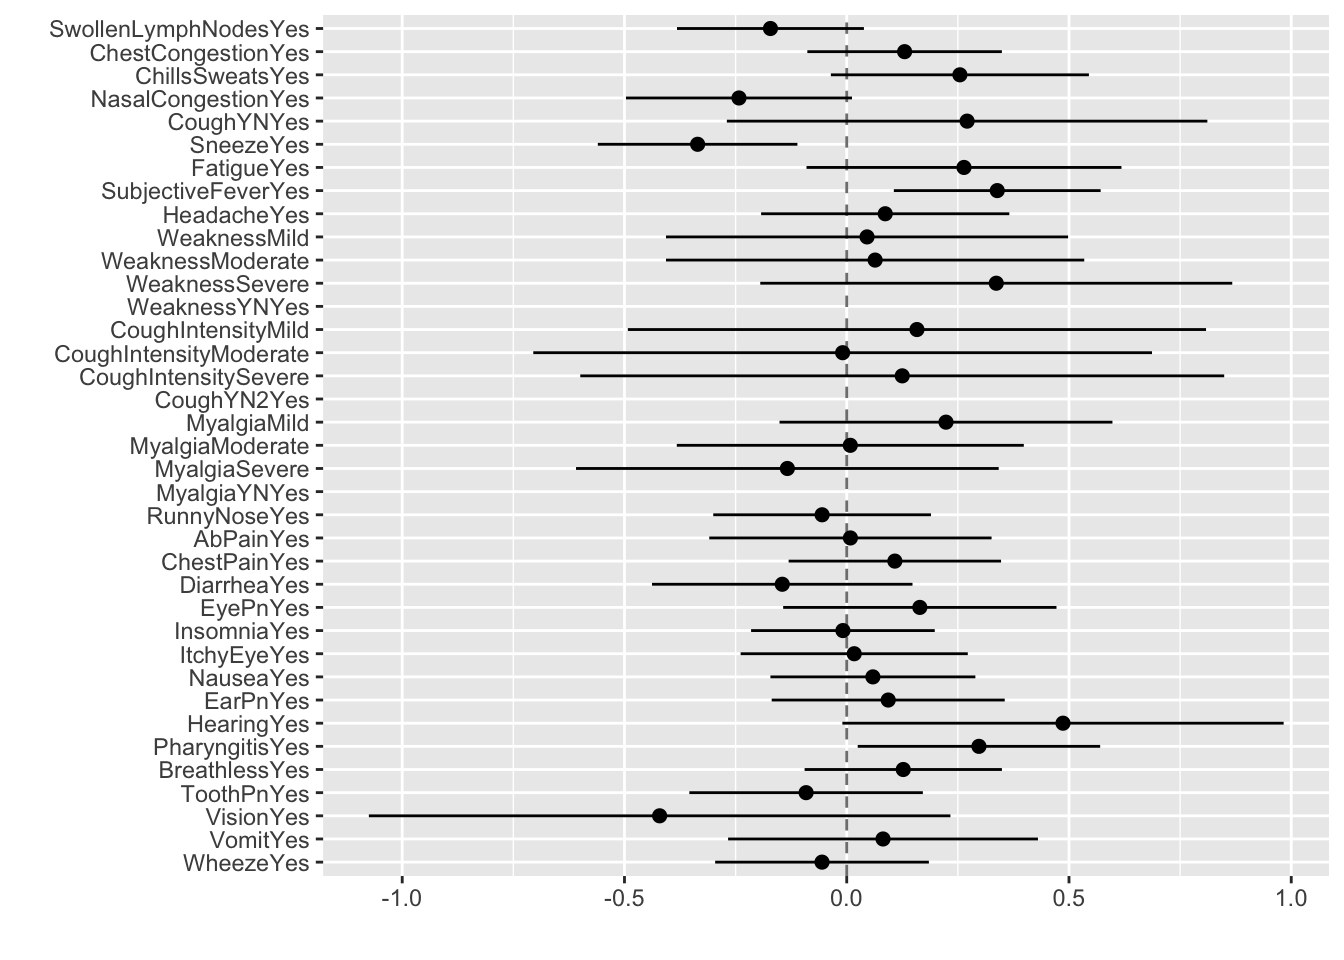
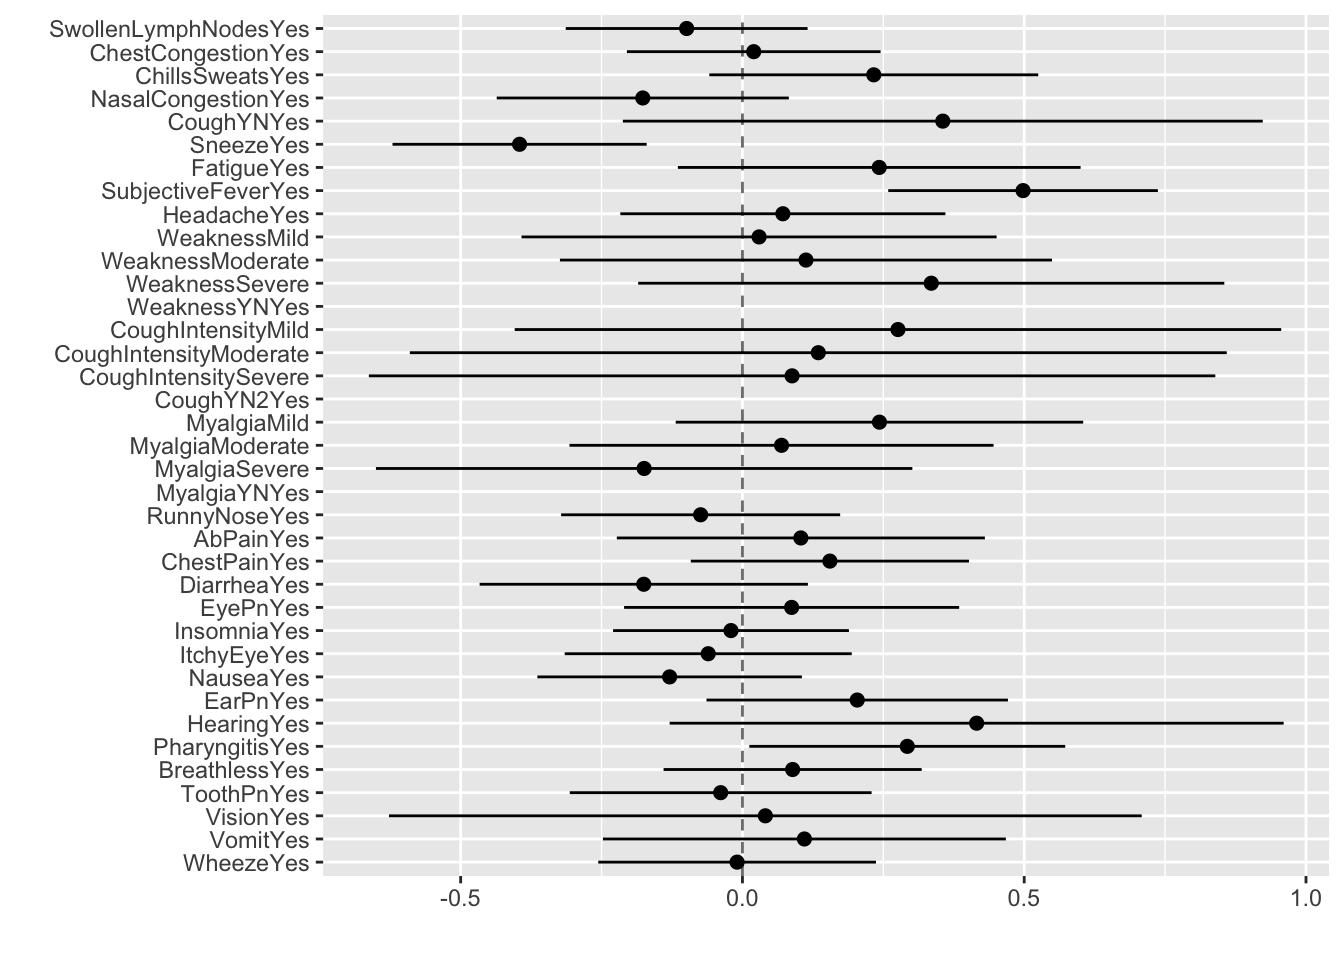
update yml

diff --git a/docs/fluanalysis/code/fitting.html b/docs/fluanalysis/code/fitting.html
@@ -147,29 +147,6 @@ code span.wa { color: #60a0b0; font-weight: bold; font-style: italic; } /* Warni
  <span class="menu-text">About Me</span></a>
   </li>  
   <li class="nav-item dropdown ">
-    <a class="nav-link dropdown-toggle" href="#" id="nav-menu-projects" role="button" data-bs-toggle="dropdown" aria-expanded="false">
- <span class="menu-text">Projects</span>
-    </a>
-    <ul class="dropdown-menu" aria-labelledby="nav-menu-projects">    
-        <li>
-    <a class="dropdown-item" href="../.././coding_exercise.html">
- <span class="dropdown-text">R Coding Exercise</span></a>
-  </li>  
-        <li>
-    <a class="dropdown-item" href="../.././visualization_exercise.html">
- <span class="dropdown-text">Visualization Exercise</span></a>
-  </li>  
-        <li>
-    <a class="dropdown-item" href="../.././tidytuesday_exercise.html">
- <span class="dropdown-text">Tidy Tuesday Exercise</span></a>
-  </li>  
-        <li>
-    <a class="dropdown-item" href="../.././data_analysis_exercise.html">
- <span class="dropdown-text">Data Analysis Exercise</span></a>
-  </li>  
-    </ul>
-  </li>
-  <li class="nav-item dropdown ">
     <a class="nav-link dropdown-toggle" href="#" id="nav-menu-flu-analysis" role="button" data-bs-toggle="dropdown" aria-expanded="false">
  <span class="menu-text">Flu Analysis</span>
     </a>
@@ -185,6 +162,29 @@ code span.wa { color: #60a0b0; font-weight: bold; font-style: italic; } /* Warni
         <li>
     <a class="dropdown-item" href="../.././fluanalysis/code/fitting.html">
  <span class="dropdown-text">Model Fitting</span></a>
+  </li>  
+    </ul>
+  </li>
+  <li class="nav-item dropdown ">
+    <a class="nav-link dropdown-toggle" href="#" id="nav-menu-other-projects" role="button" data-bs-toggle="dropdown" aria-expanded="false">
+ <span class="menu-text">Other Projects</span>
+    </a>
+    <ul class="dropdown-menu" aria-labelledby="nav-menu-other-projects">    
+        <li>
+    <a class="dropdown-item" href="../.././coding_exercise.html">
+ <span class="dropdown-text">R Coding Exercise</span></a>
+  </li>  
+        <li>
+    <a class="dropdown-item" href="../.././visualization_exercise.html">
+ <span class="dropdown-text">Visualization Exercise</span></a>
+  </li>  
+        <li>
+    <a class="dropdown-item" href="../.././tidytuesday_exercise.html">
+ <span class="dropdown-text">Tidy Tuesday Exercise</span></a>
+  </li>  
+        <li>
+    <a class="dropdown-item" href="../.././data_analysis_exercise.html">
+ <span class="dropdown-text">Data Analysis Exercise</span></a>
   </li>  
     </ul>
   </li>
@@ -345,18 +345,18 @@ code span.wa { color: #60a0b0; font-weight: bold; font-style: italic; } /* Warni
 <span id="cb17-3"><a href="#cb17-3" aria-hidden="true" tabindex="-1"></a><span class="fu">tidy</span>(bodytemp_fit)</span></code><button title="Copy to Clipboard" class="code-copy-button"><i class="bi"></i></button></pre></div>
 <div class="cell-output cell-output-stdout">
 <pre><code># A tibble: 38 × 5
-   term                 estimate std.error statistic p.value
-   &lt;chr&gt;                   &lt;dbl&gt;     &lt;dbl&gt;     &lt;dbl&gt;   &lt;dbl&gt;
- 1 (Intercept)           97.7        0.363   269.    0      
- 2 SwollenLymphNodesYes  -0.172      0.107    -1.60  0.110  
- 3 ChestCongestionYes     0.130      0.112     1.17  0.244  
- 4 ChillsSweatsYes        0.255      0.148     1.72  0.0862 
- 5 NasalCongestionYes    -0.242      0.130    -1.87  0.0622 
- 6 CoughYNYes             0.271      0.276     0.982 0.327  
- 7 SneezeYes             -0.335      0.115    -2.93  0.00356
- 8 FatigueYes             0.264      0.181     1.46  0.145  
- 9 SubjectiveFeverYes     0.339      0.119     2.85  0.00451
-10 HeadacheYes            0.0866     0.142     0.608 0.543  
+   term                 estimate std.error statistic   p.value
+   &lt;chr&gt;                   &lt;dbl&gt;     &lt;dbl&gt;     &lt;dbl&gt;     &lt;dbl&gt;
+ 1 (Intercept)           97.6        0.364   268.    0        
+ 2 SwollenLymphNodesYes  -0.0990     0.110    -0.904 0.366    
+ 3 ChestCongestionYes     0.0200     0.115     0.174 0.862    
+ 4 ChillsSweatsYes        0.233      0.149     1.56  0.118    
+ 5 NasalCongestionYes    -0.177      0.132    -1.34  0.182    
+ 6 CoughYNYes             0.356      0.290     1.23  0.220    
+ 7 SneezeYes             -0.395      0.115    -3.44  0.000636 
+ 8 FatigueYes             0.243      0.182     1.33  0.184    
+ 9 SubjectiveFeverYes     0.498      0.122     4.08  0.0000524
+10 HeadacheYes            0.0717     0.147     0.487 0.626    
 # … with 28 more rows</code></pre>
 </div>
 </div>
@@ -387,22 +387,23 @@ code span.wa { color: #60a0b0; font-weight: bold; font-style: italic; } /* Warni
 <pre><code># A tibble: 183 × 2
    BodyTemp .pred
       &lt;dbl&gt; &lt;dbl&gt;
- 1    100.   99.3
- 2     98.5  98.6
- 3     97.8  98.7
- 4     98.1  98.4
- 5    100.   99.1
- 6     98.7  98.3
- 7     98.8  99.2
- 8    101.   99.0
- 9     98.3  98.4
-10     99.3  98.9
+ 1     98.3  99.3
+ 2    100.   99.1
+ 3     98.4  98.6
+ 4     97.8  98.5
+ 5     97.9  99.7
+ 6    102.   99.0
+ 7     98.1  98.4
+ 8     99.3  99.5
+ 9     98.2  98.5
+10    100.   99.4
 # … with 173 more rows</code></pre>
 </div>
 </div>
 </section>
 <section id="use-rmse-to-evaluate-model" class="level3">
 <h3 class="anchored" data-anchor-id="use-rmse-to-evaluate-model">Use RMSE to evaluate model</h3>
+<p><strong>Info on RMSE or Root Mean Squared Error can be found <a href="https://help.sap.com/docs/SAP_PREDICTIVE_ANALYTICS/41d1a6d4e7574e32b815f1cc87c00f42/5e5198fd4afe4ae5b48fefe0d3161810.html">here</a>.</strong></p>
 <div class="cell">
 <div class="sourceCode cell-code" id="cb24"><pre class="sourceCode r code-with-copy"><code class="sourceCode r"><span id="cb24-1"><a href="#cb24-1" aria-hidden="true" tabindex="-1"></a>bodytemp_aug_test <span class="sc">%&gt;%</span> </span>
 <span id="cb24-2"><a href="#cb24-2" aria-hidden="true" tabindex="-1"></a>  <span class="fu">rmse</span>(<span class="at">truth =</span> BodyTemp, .pred)</span></code><button title="Copy to Clipboard" class="code-copy-button"><i class="bi"></i></button></pre></div>
@@ -410,7 +411,7 @@ code span.wa { color: #60a0b0; font-weight: bold; font-style: italic; } /* Warni
 <pre><code># A tibble: 1 × 3
   .metric .estimator .estimate
   &lt;chr&gt;   &lt;chr&gt;          &lt;dbl&gt;
-1 rmse    standard        1.18</code></pre>
+1 rmse    standard        1.12</code></pre>
 </div>
 </div>
 <p>I think this means that this model is estimating body temp incorrectly by this amount (in either direction)</p>
@@ -444,8 +445,8 @@ code span.wa { color: #60a0b0; font-weight: bold; font-style: italic; } /* Warni
 <pre><code># A tibble: 2 × 5
   term         estimate std.error statistic p.value
   &lt;chr&gt;           &lt;dbl&gt;     &lt;dbl&gt;     &lt;dbl&gt;   &lt;dbl&gt;
-1 (Intercept)    99.1      0.0919   1078.    0     
-2 RunnyNoseYes   -0.235    0.110      -2.13  0.0333</code></pre>
+1 (Intercept)    99.1      0.0956   1037.    0     
+2 RunnyNoseYes   -0.271    0.114      -2.38  0.0175</code></pre>
 </div>
 </div>
 <p>Now we have trained the model using the training data set.</p>
@@ -473,16 +474,16 @@ code span.wa { color: #60a0b0; font-weight: bold; font-style: italic; } /* Warni
 <pre><code># A tibble: 183 × 2
    BodyTemp .pred
       &lt;dbl&gt; &lt;dbl&gt;
- 1    100.   99.1
- 2     98.5  98.8
- 3     97.8  98.8
- 4     98.1  98.8
- 5    100.   98.8
- 6     98.7  98.8
- 7     98.8  99.1
- 8    101.   98.8
- 9     98.3  99.1
-10     99.3  98.8
+ 1     98.3  99.1
+ 2    100.   99.1
+ 3     98.4  98.9
+ 4     97.8  98.9
+ 5     97.9  99.1
+ 6    102.   98.9
+ 7     98.1  98.9
+ 8     99.3  99.1
+ 9     98.2  98.9
+10    100.   98.9
 # … with 173 more rows</code></pre>
 </div>
 </div>
@@ -496,7 +497,7 @@ code span.wa { color: #60a0b0; font-weight: bold; font-style: italic; } /* Warni
 <pre><code># A tibble: 1 × 3
   .metric .estimator .estimate
   &lt;chr&gt;   &lt;chr&gt;          &lt;dbl&gt;
-1 rmse    standard        1.22</code></pre>
+1 rmse    standard        1.12</code></pre>
 </div>
 </div>
 <p>This is a similar output to what we saw in the first model, where estimation of body temp is slightly off by about 1 degree.</p>
@@ -539,16 +540,16 @@ code span.wa { color: #60a0b0; font-weight: bold; font-style: italic; } /* Warni
 <pre><code># A tibble: 38 × 5
    term                 estimate std.error statistic p.value
    &lt;chr&gt;                   &lt;dbl&gt;     &lt;dbl&gt;     &lt;dbl&gt;   &lt;dbl&gt;
- 1 (Intercept)            -8.33      9.26     -0.899  0.369 
- 2 SwollenLymphNodesYes   -0.337     0.231    -1.46   0.143 
- 3 ChestCongestionYes      0.222     0.243     0.916  0.360 
- 4 ChillsSweatsYes         0.285     0.338     0.841  0.400 
- 5 NasalCongestionYes      0.648     0.290     2.23   0.0255
- 6 CoughYNYes             -0.388     0.603    -0.644  0.520 
- 7 SneezeYes               0.126     0.247     0.509  0.611 
- 8 FatigueYes              0.308     0.424     0.727  0.467 
- 9 SubjectiveFeverYes      0.253     0.263     0.961  0.337 
-10 HeadacheYes             0.314     0.320     0.978  0.328 
+ 1 (Intercept)            8.16       9.17      0.891  0.373 
+ 2 SwollenLymphNodesYes  -0.449      0.231    -1.95   0.0513
+ 3 ChestCongestionYes     0.367      0.245     1.50   0.133 
+ 4 ChillsSweatsYes        0.477      0.335     1.42   0.155 
+ 5 NasalCongestionYes     0.612      0.292     2.10   0.0360
+ 6 CoughYNYes            -0.293      0.616    -0.476  0.634 
+ 7 SneezeYes              0.0752     0.243     0.309  0.757 
+ 8 FatigueYes             0.141      0.408     0.346  0.729 
+ 9 SubjectiveFeverYes     0.305      0.264     1.15   0.249 
+10 HeadacheYes            0.343      0.329     1.04   0.297 
 # … with 28 more rows</code></pre>
 </div>
 </div>
@@ -570,7 +571,7 @@ prediction from a rank-deficient fit may be misleading</code></pre>
  2 No         
  3 No         
  4 No         
- 5 No         
+ 5 Yes        
  6 No         
  7 No         
  8 No         
@@ -582,6 +583,7 @@ prediction from a rank-deficient fit may be misleading</code></pre>
 </section>
 <section id="use-roc-curve-to-assess-model-fit" class="level3">
 <h3 class="anchored" data-anchor-id="use-roc-curve-to-assess-model-fit">Use ROC curve to assess model fit</h3>
+<p><strong>Info on ROC curves or Receiver Operating Characteristic can be found <a href="https://help.sap.com/docs/SAP_PREDICTIVE_ANALYTICS/41d1a6d4e7574e32b815f1cc87c00f42/ff2831b91e3640e7903581a53f2490eb.html">here</a>.</strong></p>
 <div class="cell">
 <div class="sourceCode cell-code" id="cb43"><pre class="sourceCode r code-with-copy"><code class="sourceCode r"><span id="cb43-1"><a href="#cb43-1" aria-hidden="true" tabindex="-1"></a>nausea_aug_test <span class="ot">&lt;-</span> <span class="fu">augment</span>(nausea_fit, test_data)</span></code><button title="Copy to Clipboard" class="code-copy-button"><i class="bi"></i></button></pre></div>
 <div class="cell-output cell-output-stderr">
@@ -612,7 +614,7 @@ dplyr 1.1.0.
 <pre><code># A tibble: 1 × 3
   .metric .estimator .estimate
   &lt;chr&gt;   &lt;chr&gt;          &lt;dbl&gt;
-1 roc_auc binary         0.714</code></pre>
+1 roc_auc binary         0.757</code></pre>
 </div>
 </div>
 <p>I think what this shows is that the model is a pretty decent predictor of nausea, however, it is more sensitive than it is specific, meaning that it is good at indicating true positives but not as good at indicating true negatives.</p>
@@ -647,8 +649,8 @@ dplyr 1.1.0.
 <pre><code># A tibble: 2 × 5
   term         estimate std.error statistic   p.value
   &lt;chr&gt;           &lt;dbl&gt;     &lt;dbl&gt;     &lt;dbl&gt;     &lt;dbl&gt;
-1 (Intercept)    -0.693     0.165    -4.20  0.0000270
-2 RunnyNoseYes    0.157     0.196     0.801 0.423    </code></pre>
+1 (Intercept)   -0.684      0.167    -4.10  0.0000419
+2 RunnyNoseYes   0.0408     0.198     0.206 0.837    </code></pre>
 </div>
 </div>
 </section>
@@ -691,7 +693,7 @@ dplyr 1.1.0.
 <pre><code># A tibble: 1 × 3
   .metric .estimator .estimate
   &lt;chr&gt;   &lt;chr&gt;          &lt;dbl&gt;
-1 roc_auc binary         0.473</code></pre>
+1 roc_auc binary         0.507</code></pre>
 </div>
 </div>
 

diff --git a/docs/coding_exercise.html b/docs/coding_exercise.html
@@ -98,10 +98,10 @@ code span.wa { color: #60a0b0; font-weight: bold; font-style: italic; } /* Warni
 <script src="site_libs/quarto-html/tippy.umd.min.js"></script>
 <script src="site_libs/quarto-html/anchor.min.js"></script>
 <link href="site_libs/quarto-html/tippy.css" rel="stylesheet">
-<link href="site_libs/quarto-html/quarto-syntax-highlighting.css" rel="stylesheet" id="quarto-text-highlighting-styles">
+<link href="site_libs/quarto-html/quarto-syntax-highlighting-dark.css" rel="stylesheet" id="quarto-text-highlighting-styles">
 <script src="site_libs/bootstrap/bootstrap.min.js"></script>
 <link href="site_libs/bootstrap/bootstrap-icons.css" rel="stylesheet">
-<link href="site_libs/bootstrap/bootstrap.min.css" rel="stylesheet" id="quarto-bootstrap" data-mode="light">
+<link href="site_libs/bootstrap/bootstrap.min.css" rel="stylesheet" id="quarto-bootstrap" data-mode="dark">
 <script id="quarto-search-options" type="application/json">{
   "location": "navbar",
   "copy-button": false,
@@ -166,6 +166,25 @@ code span.wa { color: #60a0b0; font-weight: bold; font-style: italic; } /* Warni
         <li>
     <a class="dropdown-item" href="././data_analysis_exercise.html">
  <span class="dropdown-text">Data Analysis Exercise</span></a>
+  </li>  
+    </ul>
+  </li>
+  <li class="nav-item dropdown ">
+    <a class="nav-link dropdown-toggle" href="#" id="nav-menu-flu-analysis" role="button" data-bs-toggle="dropdown" aria-expanded="false">
+ <span class="menu-text">Flu Analysis</span>
+    </a>
+    <ul class="dropdown-menu" aria-labelledby="nav-menu-flu-analysis">    
+        <li>
+    <a class="dropdown-item" href="././fluanalysis/code/wrangling.html">
+ <span class="dropdown-text">Data Wrangling</span></a>
+  </li>  
+        <li>
+    <a class="dropdown-item" href="././fluanalysis/code/exploration.html">
+ <span class="dropdown-text">Data Exploration</span></a>
+  </li>  
+        <li>
+    <a class="dropdown-item" href="././fluanalysis/code/fitting.html">
+ <span class="dropdown-text">Model Fitting</span></a>
   </li>  
     </ul>
   </li>

diff --git a/docs/index.html b/docs/index.html
@@ -35,10 +35,10 @@ ul.task-list li input[type="checkbox"] {
 <script src="site_libs/quarto-html/tippy.umd.min.js"></script>
 <script src="site_libs/quarto-html/anchor.min.js"></script>
 <link href="site_libs/quarto-html/tippy.css" rel="stylesheet">
-<link href="site_libs/quarto-html/quarto-syntax-highlighting.css" rel="stylesheet" id="quarto-text-highlighting-styles">
+<link href="site_libs/quarto-html/quarto-syntax-highlighting-dark.css" rel="stylesheet" id="quarto-text-highlighting-styles">
 <script src="site_libs/bootstrap/bootstrap.min.js"></script>
 <link href="site_libs/bootstrap/bootstrap-icons.css" rel="stylesheet">
-<link href="site_libs/bootstrap/bootstrap.min.css" rel="stylesheet" id="quarto-bootstrap" data-mode="light">
+<link href="site_libs/bootstrap/bootstrap.min.css" rel="stylesheet" id="quarto-bootstrap" data-mode="dark">
 <script id="quarto-search-options" type="application/json">{
   "location": "navbar",
   "copy-button": false,
@@ -103,6 +103,25 @@ ul.task-list li input[type="checkbox"] {
         <li>
     <a class="dropdown-item" href="././data_analysis_exercise.html">
  <span class="dropdown-text">Data Analysis Exercise</span></a>
+  </li>  
+    </ul>
+  </li>
+  <li class="nav-item dropdown ">
+    <a class="nav-link dropdown-toggle" href="#" id="nav-menu-flu-analysis" role="button" data-bs-toggle="dropdown" aria-expanded="false">
+ <span class="menu-text">Flu Analysis</span>
+    </a>
+    <ul class="dropdown-menu" aria-labelledby="nav-menu-flu-analysis">    
+        <li>
+    <a class="dropdown-item" href="././fluanalysis/code/wrangling.html">
+ <span class="dropdown-text">Data Wrangling</span></a>
+  </li>  
+        <li>
+    <a class="dropdown-item" href="././fluanalysis/code/exploration.html">
+ <span class="dropdown-text">Data Exploration</span></a>
+  </li>  
+        <li>
+    <a class="dropdown-item" href="././fluanalysis/code/fitting.html">
+ <span class="dropdown-text">Model Fitting</span></a>
   </li>  
     </ul>
   </li>

diff --git a/docs/aboutme.html b/docs/aboutme.html
@@ -165,7 +165,7 @@ ul.task-list li input[type="checkbox"] {
 
 <section id="background" class="level2">
 <h2 class="anchored" data-anchor-id="background">Background</h2>
-<p>My name is Leah Lariscy and I have a BS in Environmental Health and am now a first year PhD student in Environmental Health. My advisors are Travis Glenn and Erin Lipp and my research involves molecular detection in wastewater, mainly viral pathogens such as SARS-CoV-2, Mpox, and RSV. I also have some experience in many microbiology techniques, as well as some bioinformatics.</p>
+<p>My name is Leah Lariscy and I have a BS in Environmental Health and am now a first year PhD student in Environmental Health. My advisers are Travis Glenn and Erin Lipp and my research involves molecular detection in wastewater, mainly viral pathogens such as SARS-CoV-2, Mpox, and RSV. I also have some experience in many microbiology techniques, as well as some bioinformatics.</p>
 </section>
 <section id="experience" class="level2">
 <h2 class="anchored" data-anchor-id="experience">Experience</h2>
